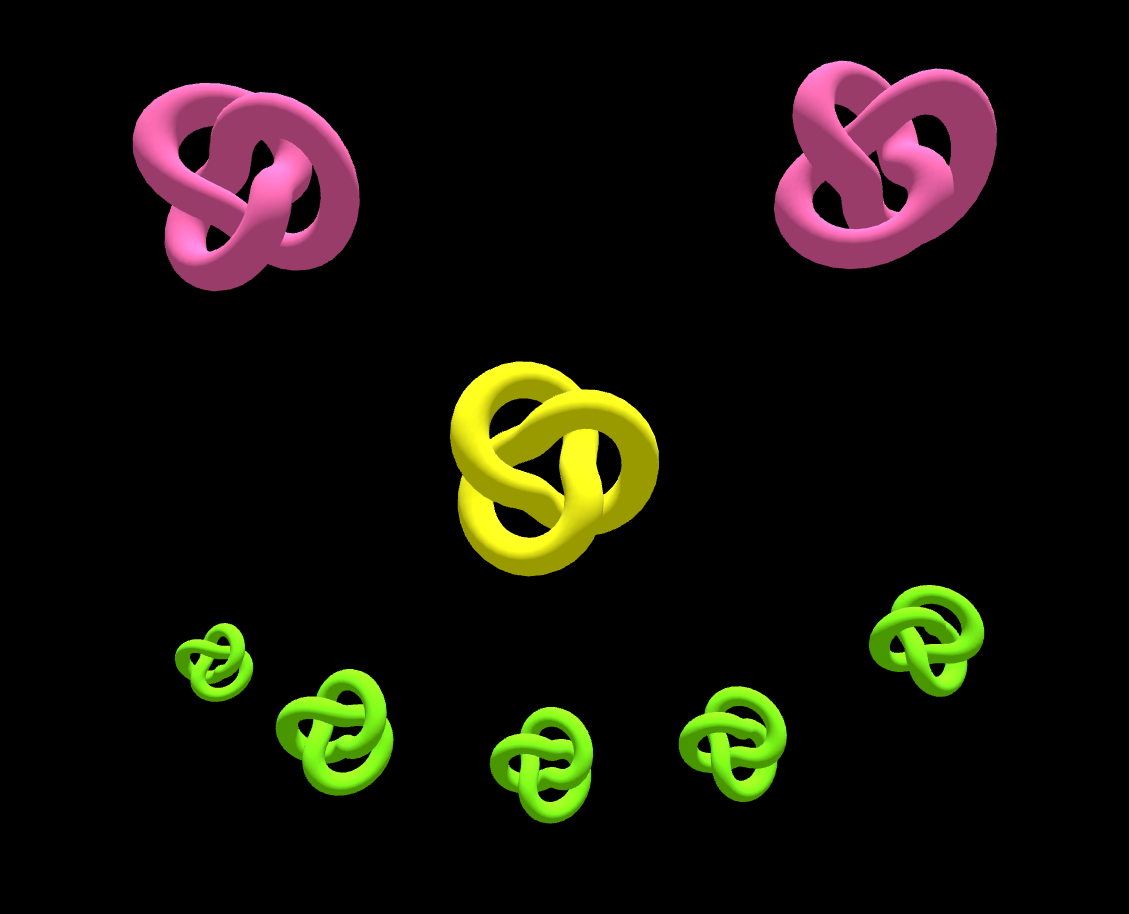
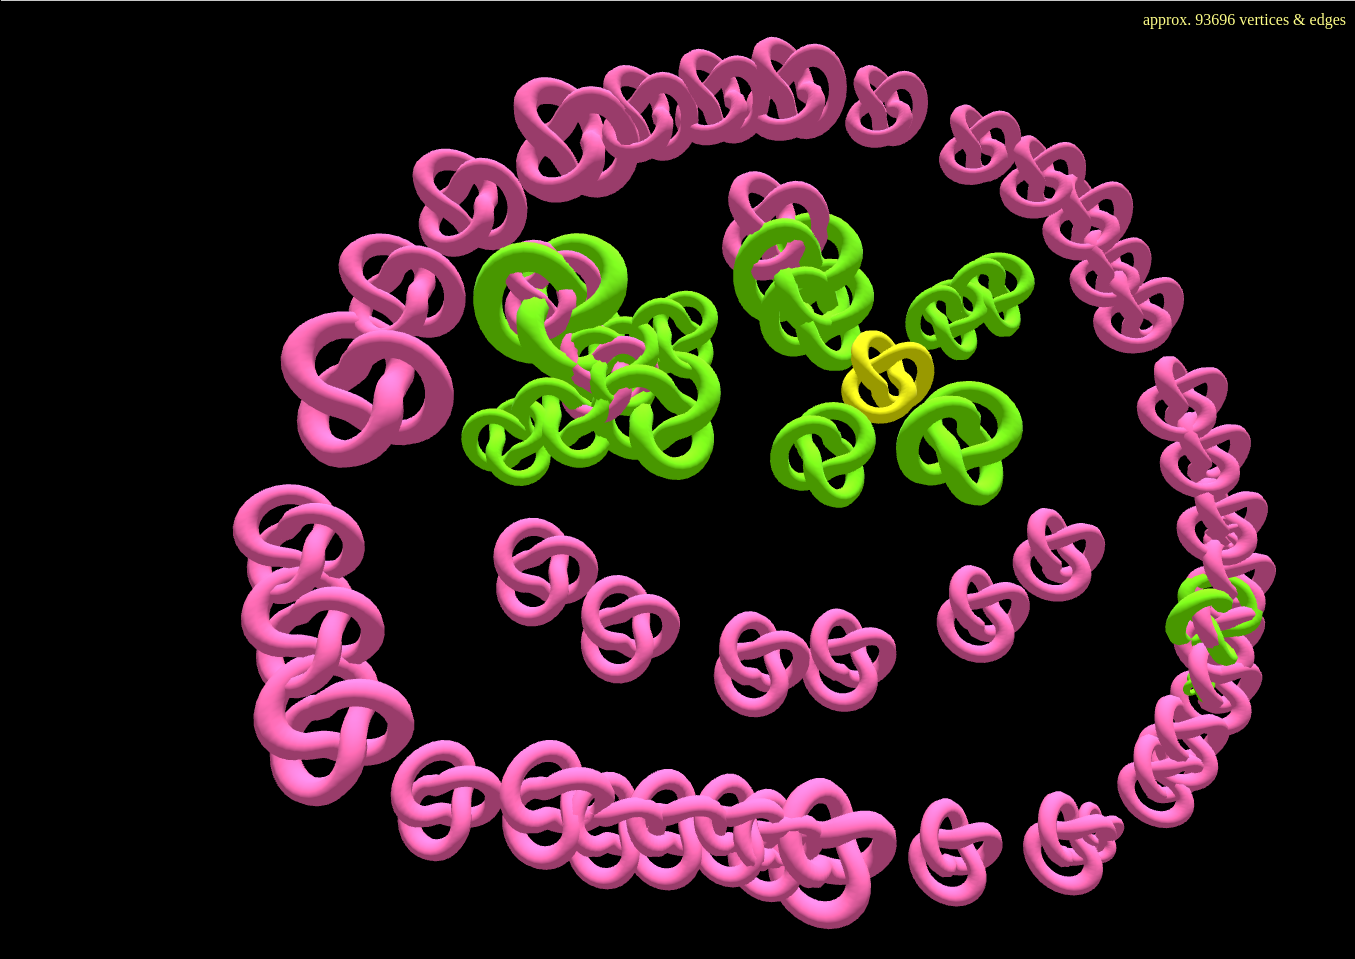
fix: fixed calculation for number of veritces

diff --git a/03/index.html b/03/index.html
@@ -17,7 +17,6 @@
       right: 10px;
       z-index: 3;
       color: #ffff88;
-      visibility: hidden;
       font-size: 1.6em user-select: none;
       /* Based on this stackoverflow post https://stackoverflow.com/questions/6900124/how-to-make-certain-text-not-selectable-with-css */
       -webkit-user-select: none;
@@ -52,6 +51,9 @@
     const HOT_PINK = 0xff69b4;
     const GRASS_GREEN = 0x7cfc00;
     const YELLOW = 0xffff00;
+    const TUBULAR_SEGMENTS = 96;
+    const RADIAL_SEGMENTS = 8;
+
     const vertexEdgeCountElement = document.getElementById("vertex-edge-count");
 
     var renderer, controls, scene, camera;
@@ -76,14 +78,7 @@
       document.body.appendChild(renderer.domElement);
 
       const updateVertextCountUI = () => {
-        if (isWireframeMode) {
-          setTimeout(() => {
-          vertexEdgeCountElement.innerText = `approx. ${renderer.info.render.lines} vertices & edges`;
-          }, 100); // the counter takes a few ms to update
-          vertexEdgeCountElement.style.visibility = "visible";
-        } else {
-          vertexEdgeCountElement.style.visibility = "hidden";
-        }
+        vertexEdgeCountElement.innerText = `approx. ${allMeshes.length * TUBULAR_SEGMENTS * RADIAL_SEGMENTS * 2} vertices & edges`;
       }
 
       function addMesh(mesh) {
@@ -99,7 +94,7 @@
 
       function handleShiftClick(coords) {
         controls.enabled = false;
-        var geometry = new THREE.TorusKnotGeometry(10, 3, 100, 16);
+        var geometry = new THREE.TorusKnotGeometry(10, 3, TUBULAR_SEGMENTS, RADIAL_SEGMENTS);
         var material = new THREE.MeshStandardMaterial({color: HOT_PINK, wireframe: isWireframeMode});
         var torusKnot = new THREE.Mesh(geometry, material);
         torusKnot.position.set(coords.x, coords.y, coords.z);
@@ -180,7 +175,7 @@
       var cube = new THREE.Mesh(geometry, material);
       */
 
-      var geometry = new THREE.TorusKnotGeometry(10, 3, 100, 16);
+      var geometry = new THREE.TorusKnotGeometry(10, 3, TUBULAR_SEGMENTS, RADIAL_SEGMENTS);
       // var material = new THREE.MeshBasicMaterial({color: 0xffff00});
       // var material = new THREE.MeshStandardMaterial({color: 0xffffff, wireframe: true}); // wireframe
       var material = new THREE.MeshStandardMaterial({color: YELLOW});
